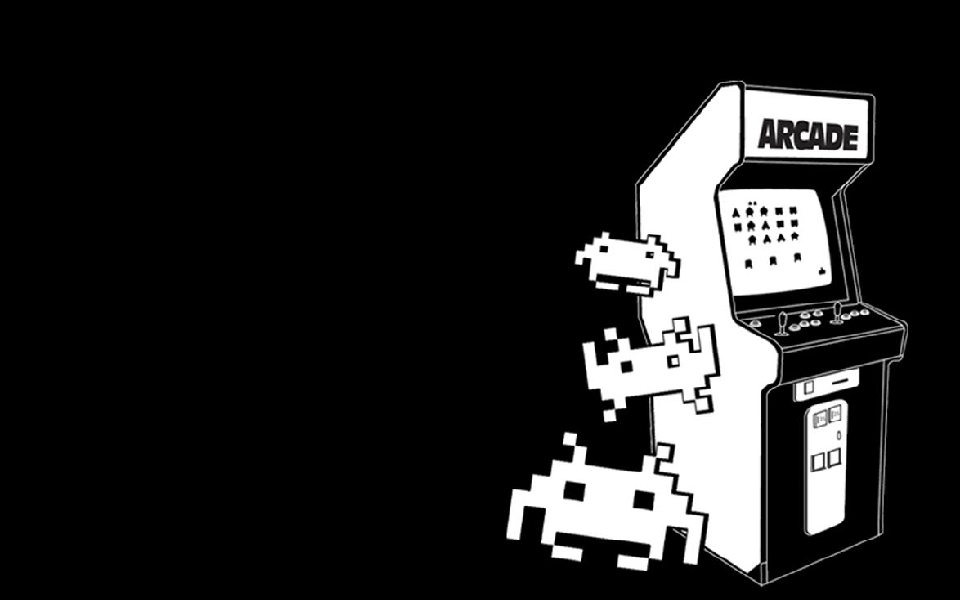
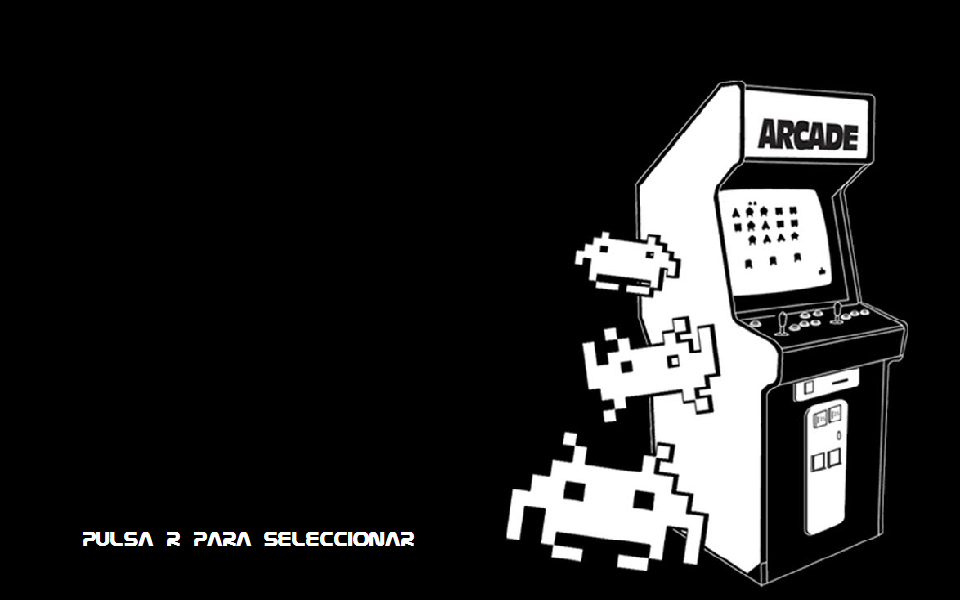
Pantalla de menú y game over terminadas

Changed region(s): [[0.0938, 0.87, 0.4375, 0.93]]

diff --git a/Menu.py b/Menu.py
@@ -4,19 +4,55 @@ BLANCO = (255, 255, 255)
 NEGRO = (0, 0, 0)
  
 pygame.init()
+reloj = pygame.time.Clock()
 pantalla = pygame.display.set_mode([960, 600])
 pygame.display.set_caption('Space Invaders')
 
 imagen_de_fondo = pygame.image.load("fondomenu1.png").convert()
-imagen_logo = pygame.image.load("logo.png").convert()
+imagen_logo = pygame.image.load("logo1.png").convert()
+imagen_com = pygame.image.load("comenzar.png").convert()
+imagen_sal = pygame.image.load("salir.png").convert()
+imagen_flch = pygame.image.load("flch.png").convert()
+
+
+posicion1=[50,236]
+posicion2=[50,330]
+aux=[50,236]
+
+def selec(x):
 
 
 hecho = False
  
 while not hecho:
     reloj.tick(60)
+    pantalla.blit(imagen_flch, posicion1)
+
+    for evento in pygame.event.get():
+        if evento.type == pygame.QUIT:
+            hecho = True
+        if evento.type == pygame.KEYDOWN:
+            if evento.key == pygame.K_UP:
+                pantalla.blit(imagen_flch, posicion1)
+                aux=posicion1
+            if evento.key == pygame.K_DOWN:
+                pantalla.blit(imagen_flch, posicion2)
+                aux=posicion2
+            if evento.key == pygame.K_r:
+            	if aux == posicion1:
+                	import Space_invaders
+                	hecho = True
+                
+
+
+
+
     pantalla.blit(imagen_de_fondo, [0,0])
     pantalla.blit(imagen_logo, [25,25])
+    pantalla.blit(imagen_com, [150,236])
+    pantalla.blit(imagen_sal, [150,330])
+    pantalla.blit(imagen_flch, aux)
+
     pygame.display.flip()
  
 pygame.quit()

diff --git a/go.py b/go.py
@@ -1,0 +1,33 @@
+import pygame
+
+BLANCO = (255, 255, 255)
+NEGRO = (0, 0, 0)
+ 
+pygame.init()
+reloj = pygame.time.Clock()
+pantalla = pygame.display.set_mode([960, 600])
+pygame.display.set_caption('Space Invaders')
+
+imagen_de_fondo = pygame.image.load("fondogameover.png").convert()
+
+
+hecho = False
+ 
+while not hecho:
+    reloj.tick(60)
+    
+
+    for evento in pygame.event.get():
+        if evento.type == pygame.QUIT:
+            hecho = True
+        if evento.type == pygame.KEYDOWN:
+            if evento.key == pygame.K_t:
+                import Menu
+                hecho = True
+
+
+    pantalla.blit(imagen_de_fondo, [0,0])
+
+    pygame.display.flip()
+ 
+pygame.quit()
